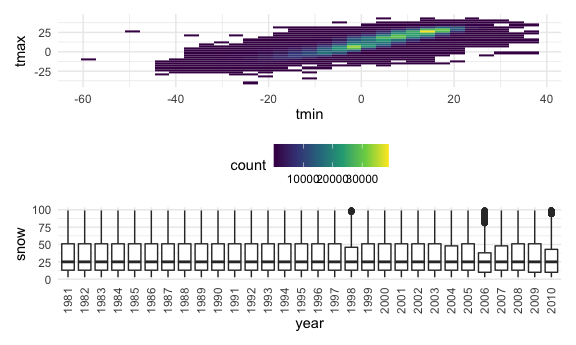
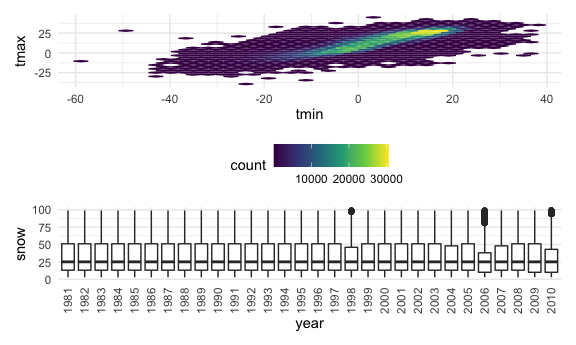
use the hex for p3

diff --git a/p8105_hw3_yw3436.md b/p8105_hw3_yw3436.md
@@ -2,7 +2,7 @@ Homework 3
 ================
 Yuqi Wang
 
-This is my question for HW3.
+This is my answer for HW3.
 
 ``` r
 library(tidyverse)
@@ -22,6 +22,7 @@ library(tidyverse)
 ``` r
 library(p8105.datasets)
 library(patchwork)
+library(hexbin)
 
 knitr::opts_chunk$set(
   fig.width = 6,
@@ -159,7 +160,7 @@ Description of the data set:
 
 This data set contains 50400 rows and 6 columns. It includes the
 following variables: activity, day, day\_cat, day\_id, minute, week, to
-describe the activity counts for 6 observations.
+describe the activity counts for 50400 observations.
 
 Next, we create a total activity variable for each day, and create a
 table to show the totals.
@@ -190,10 +191,12 @@ accel_total_day
 |    4 | 409450.0 | 319568.0 |    434460 | 340291.0 | 154049.0 |     1440 | 260617 |
 |    5 | 389080.0 | 367824.0 |    445366 | 549658.0 | 620860.0 |     1440 | 138421 |
 
-\#\#\#\#not sure about this say the 1440 things here From the table we
-built for the totals, we found that generally speaking, participants
-tend to do more activity on Fridays and have the lowest activity counts
-on Saturdays.
+From the table we built for the totals, we found that generally
+speaking, this participant tended to have more activity on Fridays.
+Also, on Saturdays, there are two days with summed activity counts of
+1440, which are suspicious numbers because 1440 means the person has an
+activity count of 1 for every minute on the two days, indicating that
+this person might have taken off the device on the two days.
 
 ``` r
 accel_df %>% 
@@ -208,7 +211,11 @@ accel_df %>%
 
 <img src="p8105_hw3_yw3436_files/figure-gfm/unnamed-chunk-9-1.png" width="90%" />
 
-Description of the trend:
+Description of the trend: According to the graph, the participant tends
+to have more activity from 5am to 1pm and from 6pm to 9pm. On Fridays,
+the person tend to have more activities in the evening, while on
+Sundays, the person has more activity at daytime. the highest average
+activity count is on Monday.
 
 ## Problem 3
 
@@ -257,7 +264,7 @@ noaa_df %>%
 \#\#\#\#\#\#\#\#why there is a -13????
 
 For snowfall, 0 is the most commonly observed value, because for most
-days in a year, there is no snowfall.?????????????/
+days in a year, there is no snowfall.
 
 Make a two-panel plot showing the average max temperature in January and
 in July in each station across years
@@ -279,11 +286,19 @@ noaa_df %>%
 
 <img src="p8105_hw3_yw3436_files/figure-gfm/unnamed-chunk-12-1.png" width="90%" />
 
-``` r
-########should I delete these nan values?
-```
+Description of trend:
 
-Description:
+According to the graph, the mean max temperatures for January and July
+show a fluctuant trend from 1980 to 2010. The max temperature in
+Januarys shows a slight increasing trend, which may indicate global
+warming, while the max temperature in Julys are relatively stable. The
+difference of max temperature measures among all the stations is about
+10 degree Celsius.
+
+There are several outliers in the two graphs. In the graph of January,
+there is a extremely high outlier with max temperature of 13 degress
+Celsius. In July, there are two outliers with low temperature of 14 and
+17.
 
 Make a two-panel plot showing (i) tmax vs tmin for the full dataset
 (note that a scatterplot may not be the best option); and (ii) make a
@@ -293,10 +308,8 @@ than 100 separately by year.
 ``` r
 tmax_min_p = noaa_df %>% 
   na.omit(tmax,tmin) %>% 
-  select(tmax, tmin) %>% 
   ggplot(aes(x = tmin, y = tmax)) +
-  geom_bin2d()
-
+  geom_hex()
 
 snowfall_df = noaa_df %>% 
   filter(0 < snow, snow < 100) %>% 
